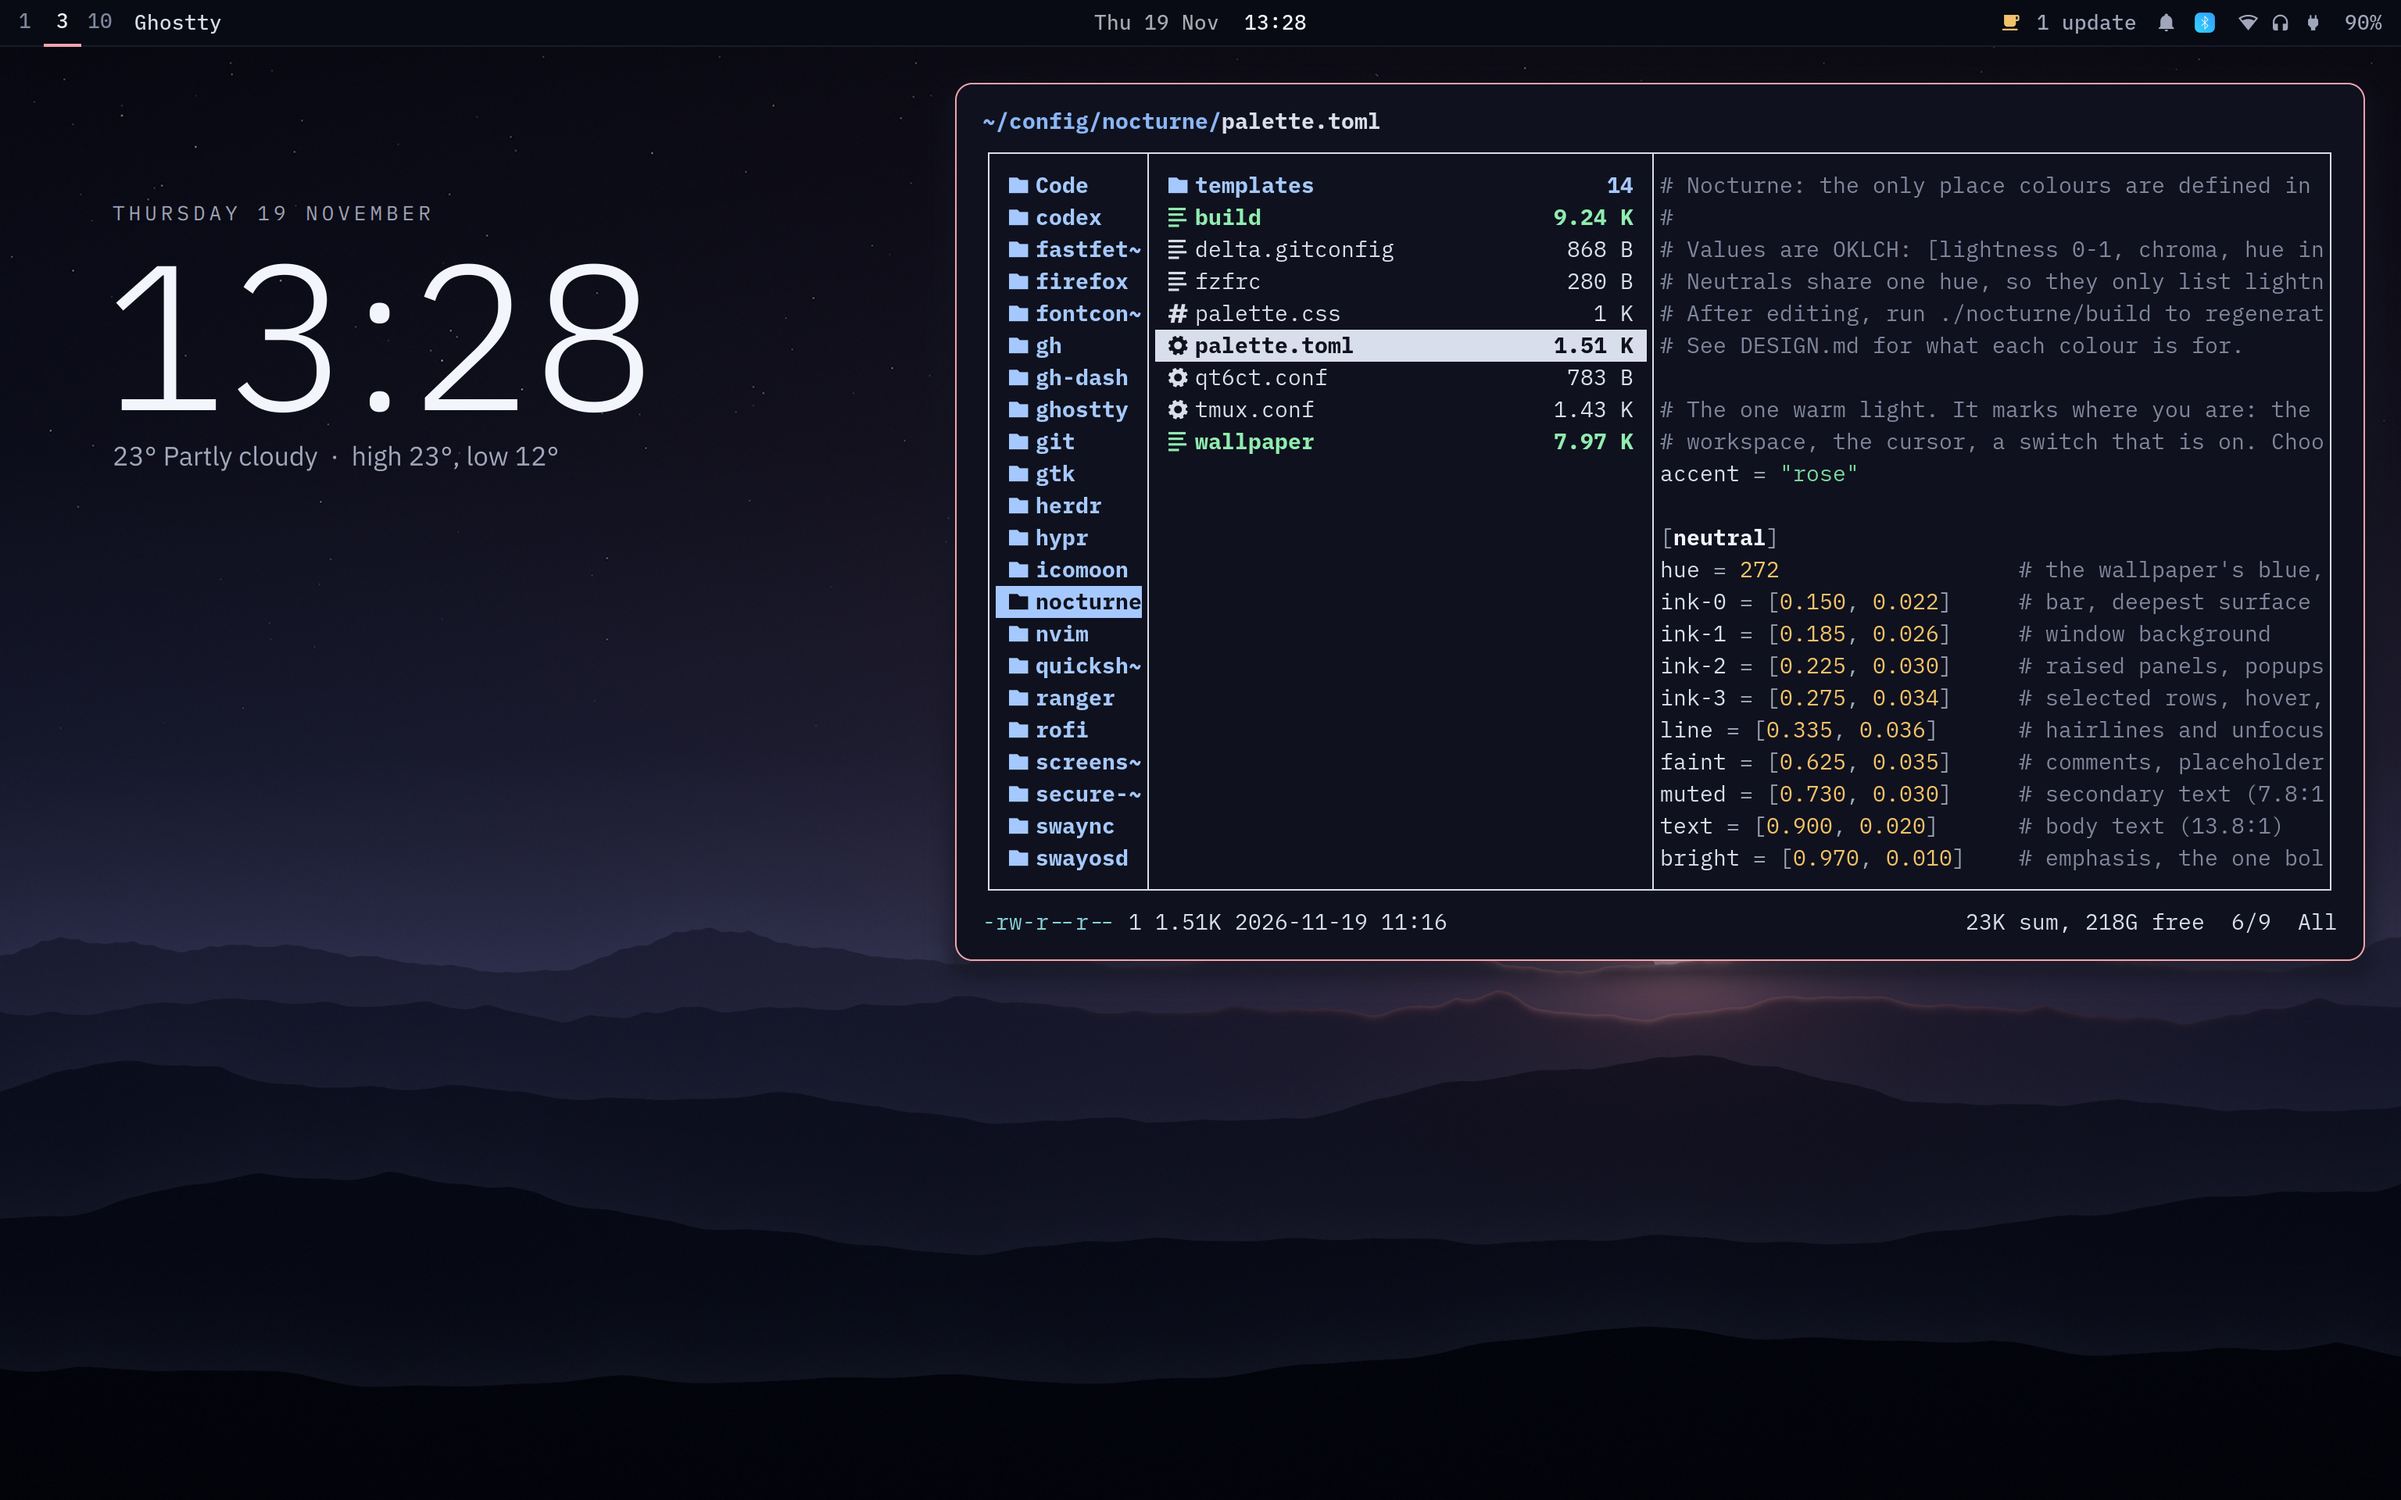
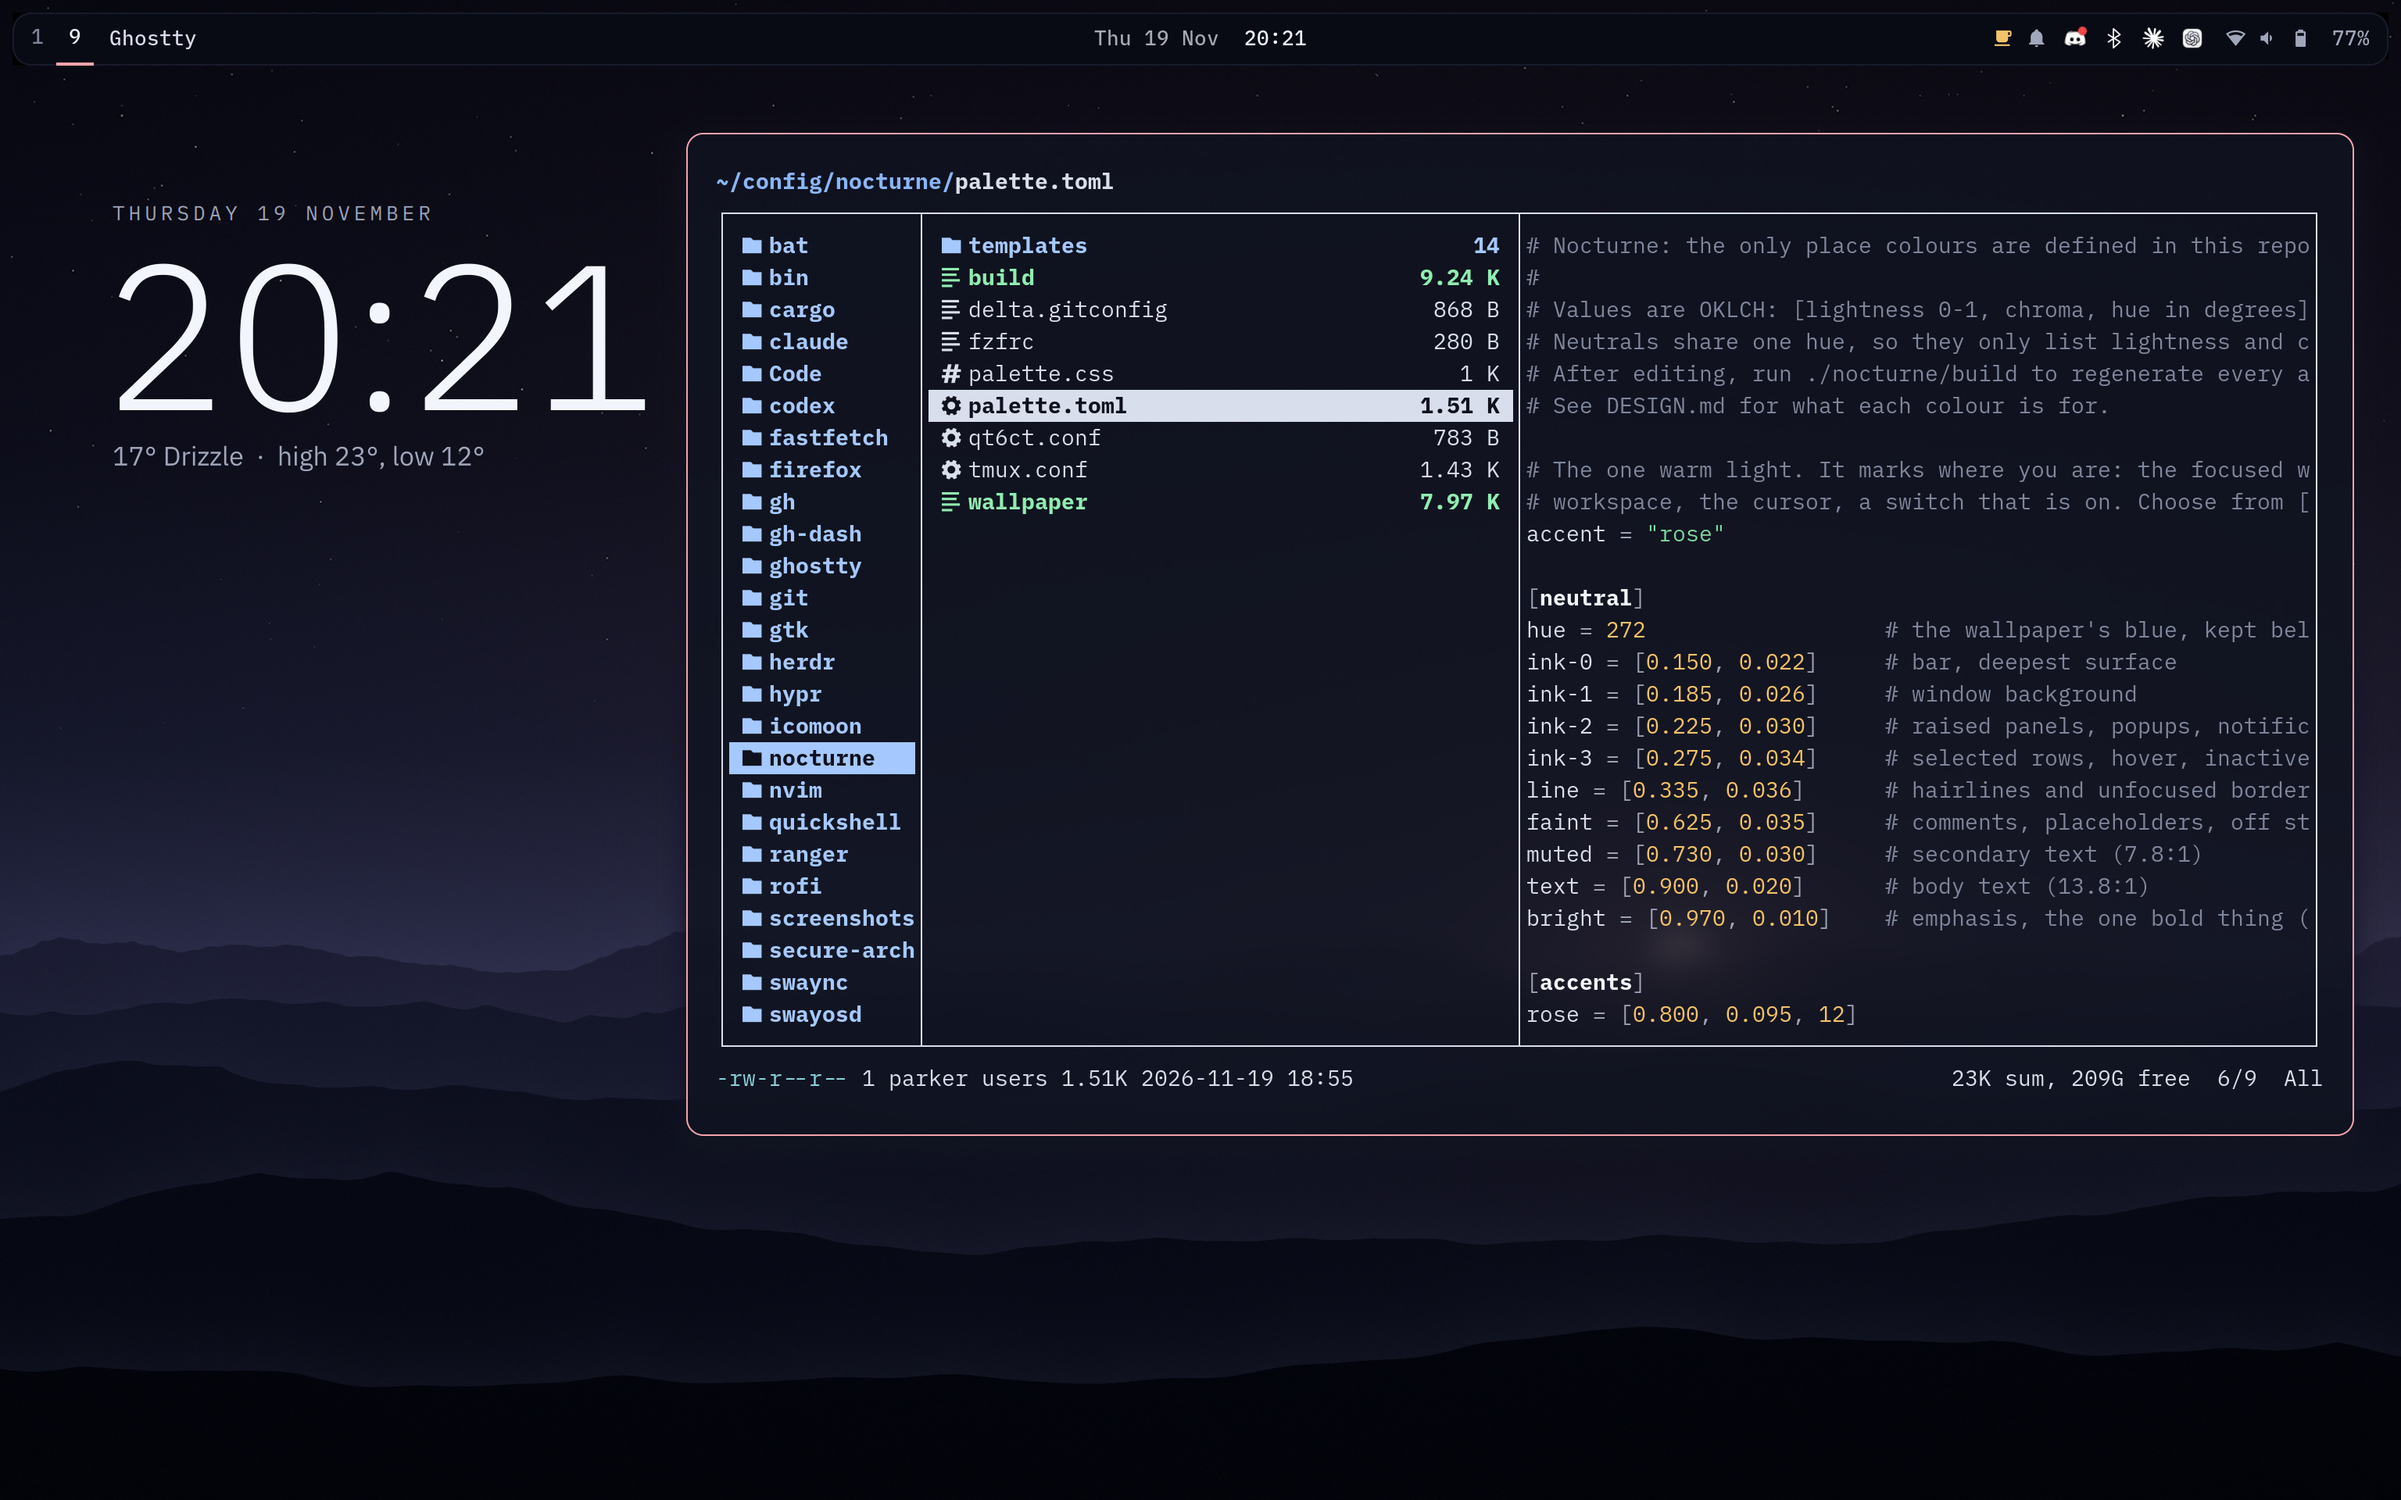
chore: tweak design

diff --git a/nocturne/templates/zen.css b/nocturne/templates/zen.css
@@ -14,7 +14,9 @@
     /* Zen's derived surfaces, mapped to the ink ramp. */
     --zen-branding-dark: {{ink-0}} !important;
     --zen-branding-paper: {{bright}} !important;
-    --zen-themed-toolbar-bg-transparent: {{ink-0}} !important;
+    /* Paints the whole window behind the sidebar: keep it clear, so the glass
+       below (#zen-browser-background) shows the blurred desktop. */
+    --zen-themed-toolbar-bg-transparent: transparent !important;
     --zen-colors-primary: {{ink-3}} !important;
     --zen-colors-secondary: {{ink-3}} !important;
     --zen-colors-tertiary: {{ink-1}} !important;
@@ -86,13 +88,16 @@ zen-workspace,
     --zen-split-view-active-tab-bg: {{ink-3}} !important;
 }
 
-/* The window background: one flat surface instead of the workspace gradient. */
+/* The window background: one flat surface instead of the workspace gradient,
+   as glass. zen/user.js makes the window transparent and Hyprland blurs what
+   is behind. At 40%, sidebar text keeps 7.7:1 and secondary text dips to 4.3:1
+   over the moon on the wallpaper. Web pages stay solid. */
 #zen-browser-background,
 #zen-toolbar-background {
-    --zen-main-browser-background: {{ink-0}} !important;
-    --zen-main-browser-background-toolbar: {{ink-0}} !important;
-    --zen-main-browser-background-old: {{ink-0}} !important;
-    --zen-main-browser-background-toolbar-old: {{ink-0}} !important;
+    --zen-main-browser-background: rgba({{ink-0:rgb}}, 0.4) !important;
+    --zen-main-browser-background-toolbar: rgba({{ink-0:rgb}}, 0.4) !important;
+    --zen-main-browser-background-old: rgba({{ink-0:rgb}}, 0.4) !important;
+    --zen-main-browser-background-toolbar-old: rgba({{ink-0:rgb}}, 0.4) !important;
 }
 
 /* The floating address bar: a solid raised surface with one hairline. */

diff --git a/zen/chrome/nocturne.css b/zen/chrome/nocturne.css
@@ -14,7 +14,9 @@
     /* Zen's derived surfaces, mapped to the ink ramp. */
     --zen-branding-dark: #080b14 !important;
     --zen-branding-paper: #f3f5fc !important;
-    --zen-themed-toolbar-bg-transparent: #080b14 !important;
+    /* Paints the whole window behind the sidebar: keep it clear, so the glass
+       below (#zen-browser-background) shows the blurred desktop. */
+    --zen-themed-toolbar-bg-transparent: transparent !important;
     --zen-colors-primary: #222739 !important;
     --zen-colors-secondary: #222739 !important;
     --zen-colors-tertiary: #0f121e !important;
@@ -86,13 +88,16 @@ zen-workspace,
     --zen-split-view-active-tab-bg: #222739 !important;
 }
 
-/* The window background: one flat surface instead of the workspace gradient. */
+/* The window background: one flat surface instead of the workspace gradient,
+   as glass. zen/user.js makes the window transparent and Hyprland blurs what
+   is behind. At 40%, sidebar text keeps 7.7:1 and secondary text dips to 4.3:1
+   over the moon on the wallpaper. Web pages stay solid. */
 #zen-browser-background,
 #zen-toolbar-background {
-    --zen-main-browser-background: #080b14 !important;
-    --zen-main-browser-background-toolbar: #080b14 !important;
-    --zen-main-browser-background-old: #080b14 !important;
-    --zen-main-browser-background-toolbar-old: #080b14 !important;
+    --zen-main-browser-background: rgba(8, 11, 20, 0.4) !important;
+    --zen-main-browser-background-toolbar: rgba(8, 11, 20, 0.4) !important;
+    --zen-main-browser-background-old: rgba(8, 11, 20, 0.4) !important;
+    --zen-main-browser-background-toolbar-old: rgba(8, 11, 20, 0.4) !important;
 }
 
 /* The floating address bar: a solid raised surface with one hairline. */

diff --git a/nocturne/templates/zen-user.js b/nocturne/templates/zen-user.js
@@ -11,6 +11,10 @@ user_pref("zen.theme.accent-color", "{{accent}}");
 user_pref("zen.theme.border-radius", 10);
 user_pref("zen.theme.content-element-separation", 8);
 
+// A transparent window, so the sidebar and toolbar can be glass (zen/chrome/
+// nocturne.css sets the tint). Takes effect when Zen restarts.
+user_pref("zen.widget.linux.transparency", true);
+
 // The desktop's fonts for pages that do not choose their own.
 user_pref("font.name.sans-serif.x-western", "IBM Plex Sans");
 user_pref("font.name.serif.x-western", "IBM Plex Serif");

diff --git a/zen/user.js b/zen/user.js
@@ -11,6 +11,10 @@ user_pref("zen.theme.accent-color", "#f4a4ad");
 user_pref("zen.theme.border-radius", 10);
 user_pref("zen.theme.content-element-separation", 8);
 
+// A transparent window, so the sidebar and toolbar can be glass (zen/chrome/
+// nocturne.css sets the tint). Takes effect when Zen restarts.
+user_pref("zen.widget.linux.transparency", true);
+
 // The desktop's fonts for pages that do not choose their own.
 user_pref("font.name.sans-serif.x-western", "IBM Plex Sans");
 user_pref("font.name.serif.x-western", "IBM Plex Serif");

diff --git a/waybar/style.css b/waybar/style.css
@@ -1,4 +1,4 @@
-/* Nocturne bar: one surface flush with the top edge, three groups, no chips.
+/* Nocturne bar: one floating surface, three groups, no chips.
    Text is muted by default; a colour appears only when something needs you.
    Colours come from ../nocturne/palette.css, generated by nocturne/build. */
 
@@ -17,7 +17,8 @@
 
 window#waybar {
     background: @ink_0;
-    border-bottom: 1px solid @ink_2;
+    border: 1px solid @ink_2;
+    border-radius: 12px;
     color: @muted;
 }
 

diff --git a/DESIGN.md b/DESIGN.md
@@ -95,7 +95,7 @@ use `leave` (0.4, 0, 1, 1) and take about three quarters of the time.
 
 | Surface | Treatment |
 | --- | --- |
-| Bar | `ink-0`, flush to the top, 30 px. Workspaces as numbers, the current one underlined in the accent. Right side: icons in `muted`, warnings in gold, errors in red. |
+| Bar | `ink-0`, a floating island 34 px tall with 12 px corners, 8 px from the screen edges like the windows below it. Workspaces as numbers, the current one underlined in the accent. Right side: icons in `muted`, warnings in gold, errors in red. |
 | Windows | Opaque, 1 px border, 10 px radius. Unfocused windows dim by 8%. |
 | Launcher | One glass surface, query on top, sections in the footer, fixed height. Dims the screen behind it. |
 | Notifications | `ink-2` at 90%, one hairline, actions under a hairline. Inside the control centre they become rows, not cards. |
@@ -103,7 +103,7 @@ use `leave` (0.4, 0, 1, 1) and take about three quarters of the time.
 | Wallpaper | `hypr/wallpapers/nocturne.jpg`, painted by `nocturne/wallpaper` from the palette: a night sky that starts at `ink-0` under the bar, receding hills, and a low moon in the accent colour, right of centre so the lock-screen clock never covers it. Run it after changing the accent; `--seed` gives a different skyline. |
 | Desktop | Shown on empty workspaces only, below every window. Text only, left-aligned in the empty sky so the moon stays the one warm light: the date in small capitals, a large light clock, one line of weather, and the current track while something plays or is paused (click it to play or pause). No cards, boxes or glow. |
 | Lock screen | Your current wallpaper, heavily blurred; open windows never show. Darker wallpapers are dimmed less (0.6 for the brightest, up to 1.0), measured when the wallpaper is chosen. Date in small capitals above a clock about 100 px tall, password dots in the accent below it. A soft dark shadow keeps the text readable on any wallpaper. |
-| Terminal | `ink-1`, Lilex 10.5 pt, a steady block cursor in the accent (a bar while typing in zsh). |
+| Terminal | `ink-1` glass at 85% with Hyprland's blur behind, text solid, Lilex 10.5 pt, a steady block cursor in the accent (a bar while typing in zsh). |
 
 ## Where things live
 
@@ -152,7 +152,9 @@ Zen paints a gradient per workspace and derives its colours from an accent,
 both written as inline styles. `zen/chrome/nocturne.css` pins those variables
 with `!important`, which a user stylesheet is allowed to do over inline
 styles, so the sidebar stays one flat `ink-0` surface whatever theme a
-workspace has. The selected tab is a lighter row with bright text, like the
+workspace has. That surface is glass: Zen's Linux transparency is on
+(`zen/user.js`) and the sidebar is tinted 40%, so Hyprland's blur shows
+through; text stays at 7.7:1 even over the moon. Web pages stay solid. The selected tab is a lighter row with bright text, like the
 launcher; the accent is kept for focus rings, toggles and primary buttons.
 
 The Flatpak sandbox gets read-only access to `zen/` only

diff --git a/README.md b/README.md
@@ -1,6 +1,6 @@
 # Arch Linux and Hyprland dotfiles
 
-![Nocturne desktop with a large clock, date, and weather over a dark wallpaper](./screenshots/1-desktop.jpg)
+![Nocturne desktop with a floating Waybar, a large clock, and weather over a moonlit landscape](./screenshots/1-desktop.jpg)
 
 These dotfiles follow **Nocturne**, a design system built around a cold, dark
 palette with a single warm accent. See [DESIGN.md](./DESIGN.md) for the design
@@ -11,12 +11,15 @@ The [NixOS version](https://github.com/AlvaroParker/NixOS-config) is also availa
 ## Screenshots
 
 <p>
-  <a href="./screenshots/2-terminal.jpg"><img width="49%" src="./screenshots/2-terminal.jpg" alt="A floating Ghostty terminal showing fastfetch"></a>
+  <a href="./screenshots/2-terminal.jpg"><img width="49%" src="./screenshots/2-terminal.jpg" alt="Ghostty showing fastfetch with the blurred wallpaper visible through the terminal"></a>
   <a href="./screenshots/3-ranger.jpg"><img width="49%" src="./screenshots/3-ranger.jpg" alt="ranger browsing the Nocturne folder with palette.toml in the preview column"></a>
 </p>
 <p>
   <a href="./screenshots/4-btop.jpg"><img width="49%" src="./screenshots/4-btop.jpg" alt="btop showing CPU, memory, disks, network, and processes"></a>
   <a href="./screenshots/5-zed.jpg"><img width="49%" src="./screenshots/5-zed.jpg" alt="Zed with the repository file tree and install script open"></a>
+</p>
+<p>
+  <a href="./screenshots/6-zen.jpg"><img width="100%" src="./screenshots/6-zen.jpg" alt="Zen’s translucent sidebar beside the browser layout settings"></a>
 </p>
 
 ## Installation
